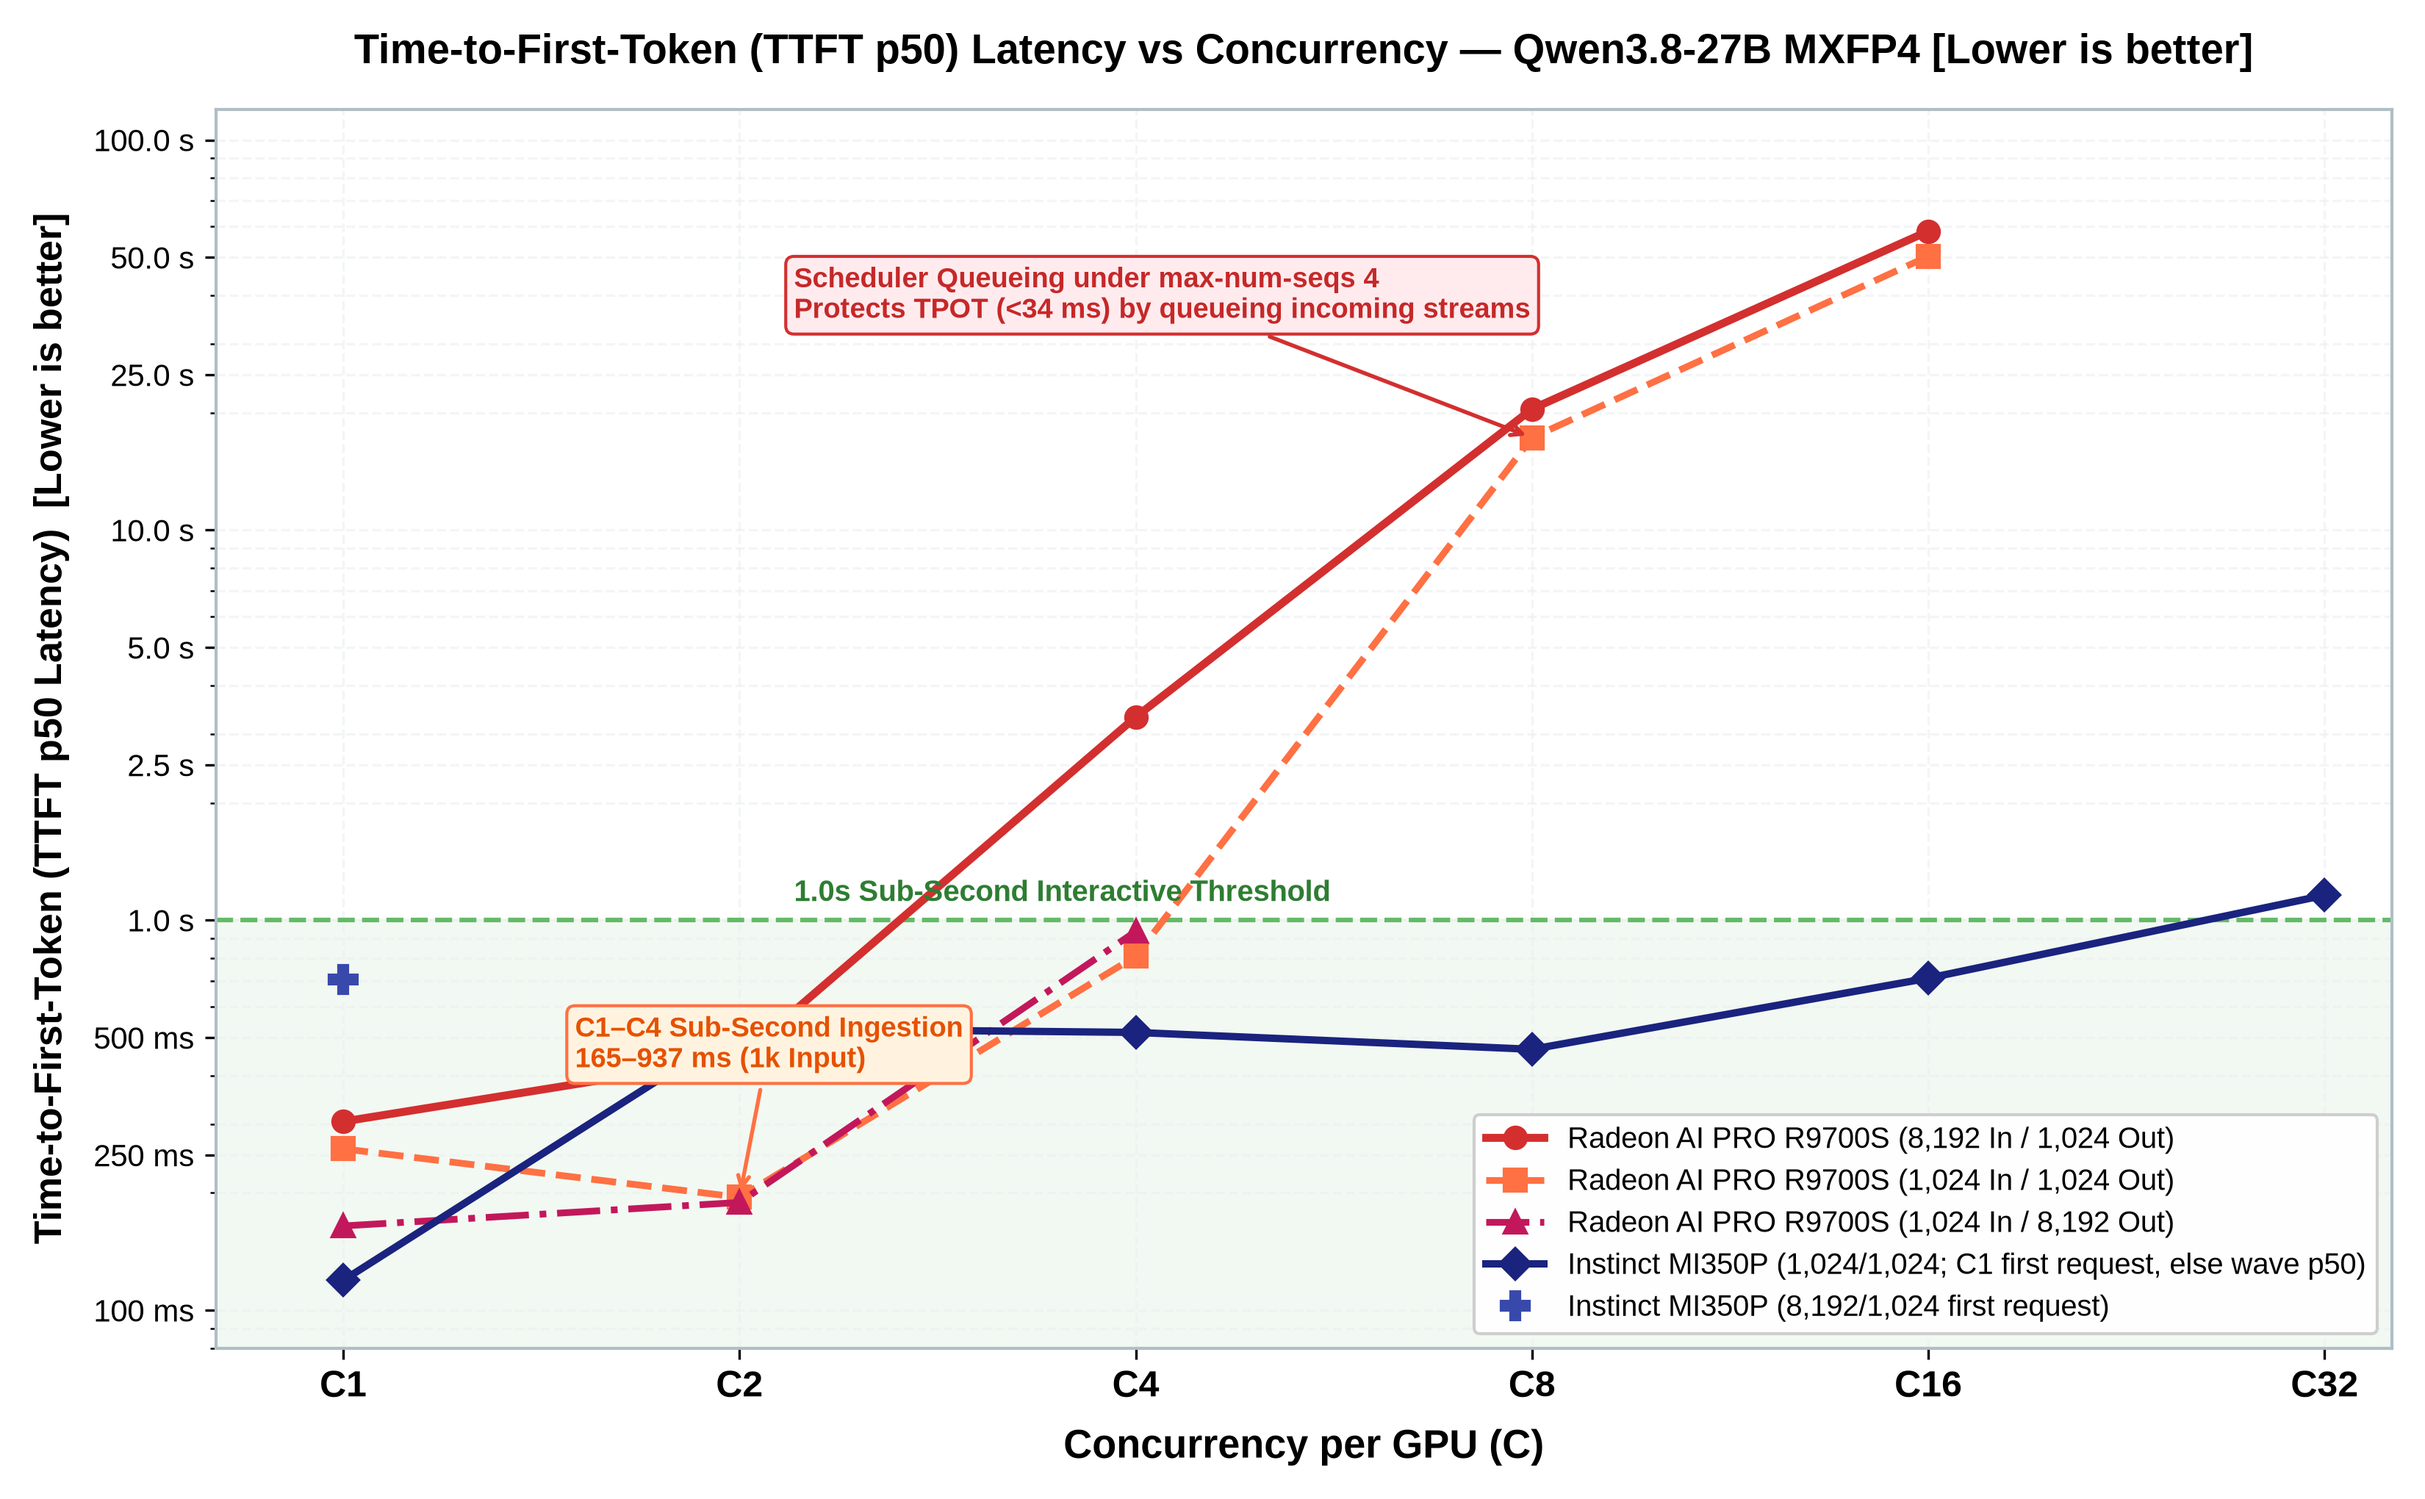
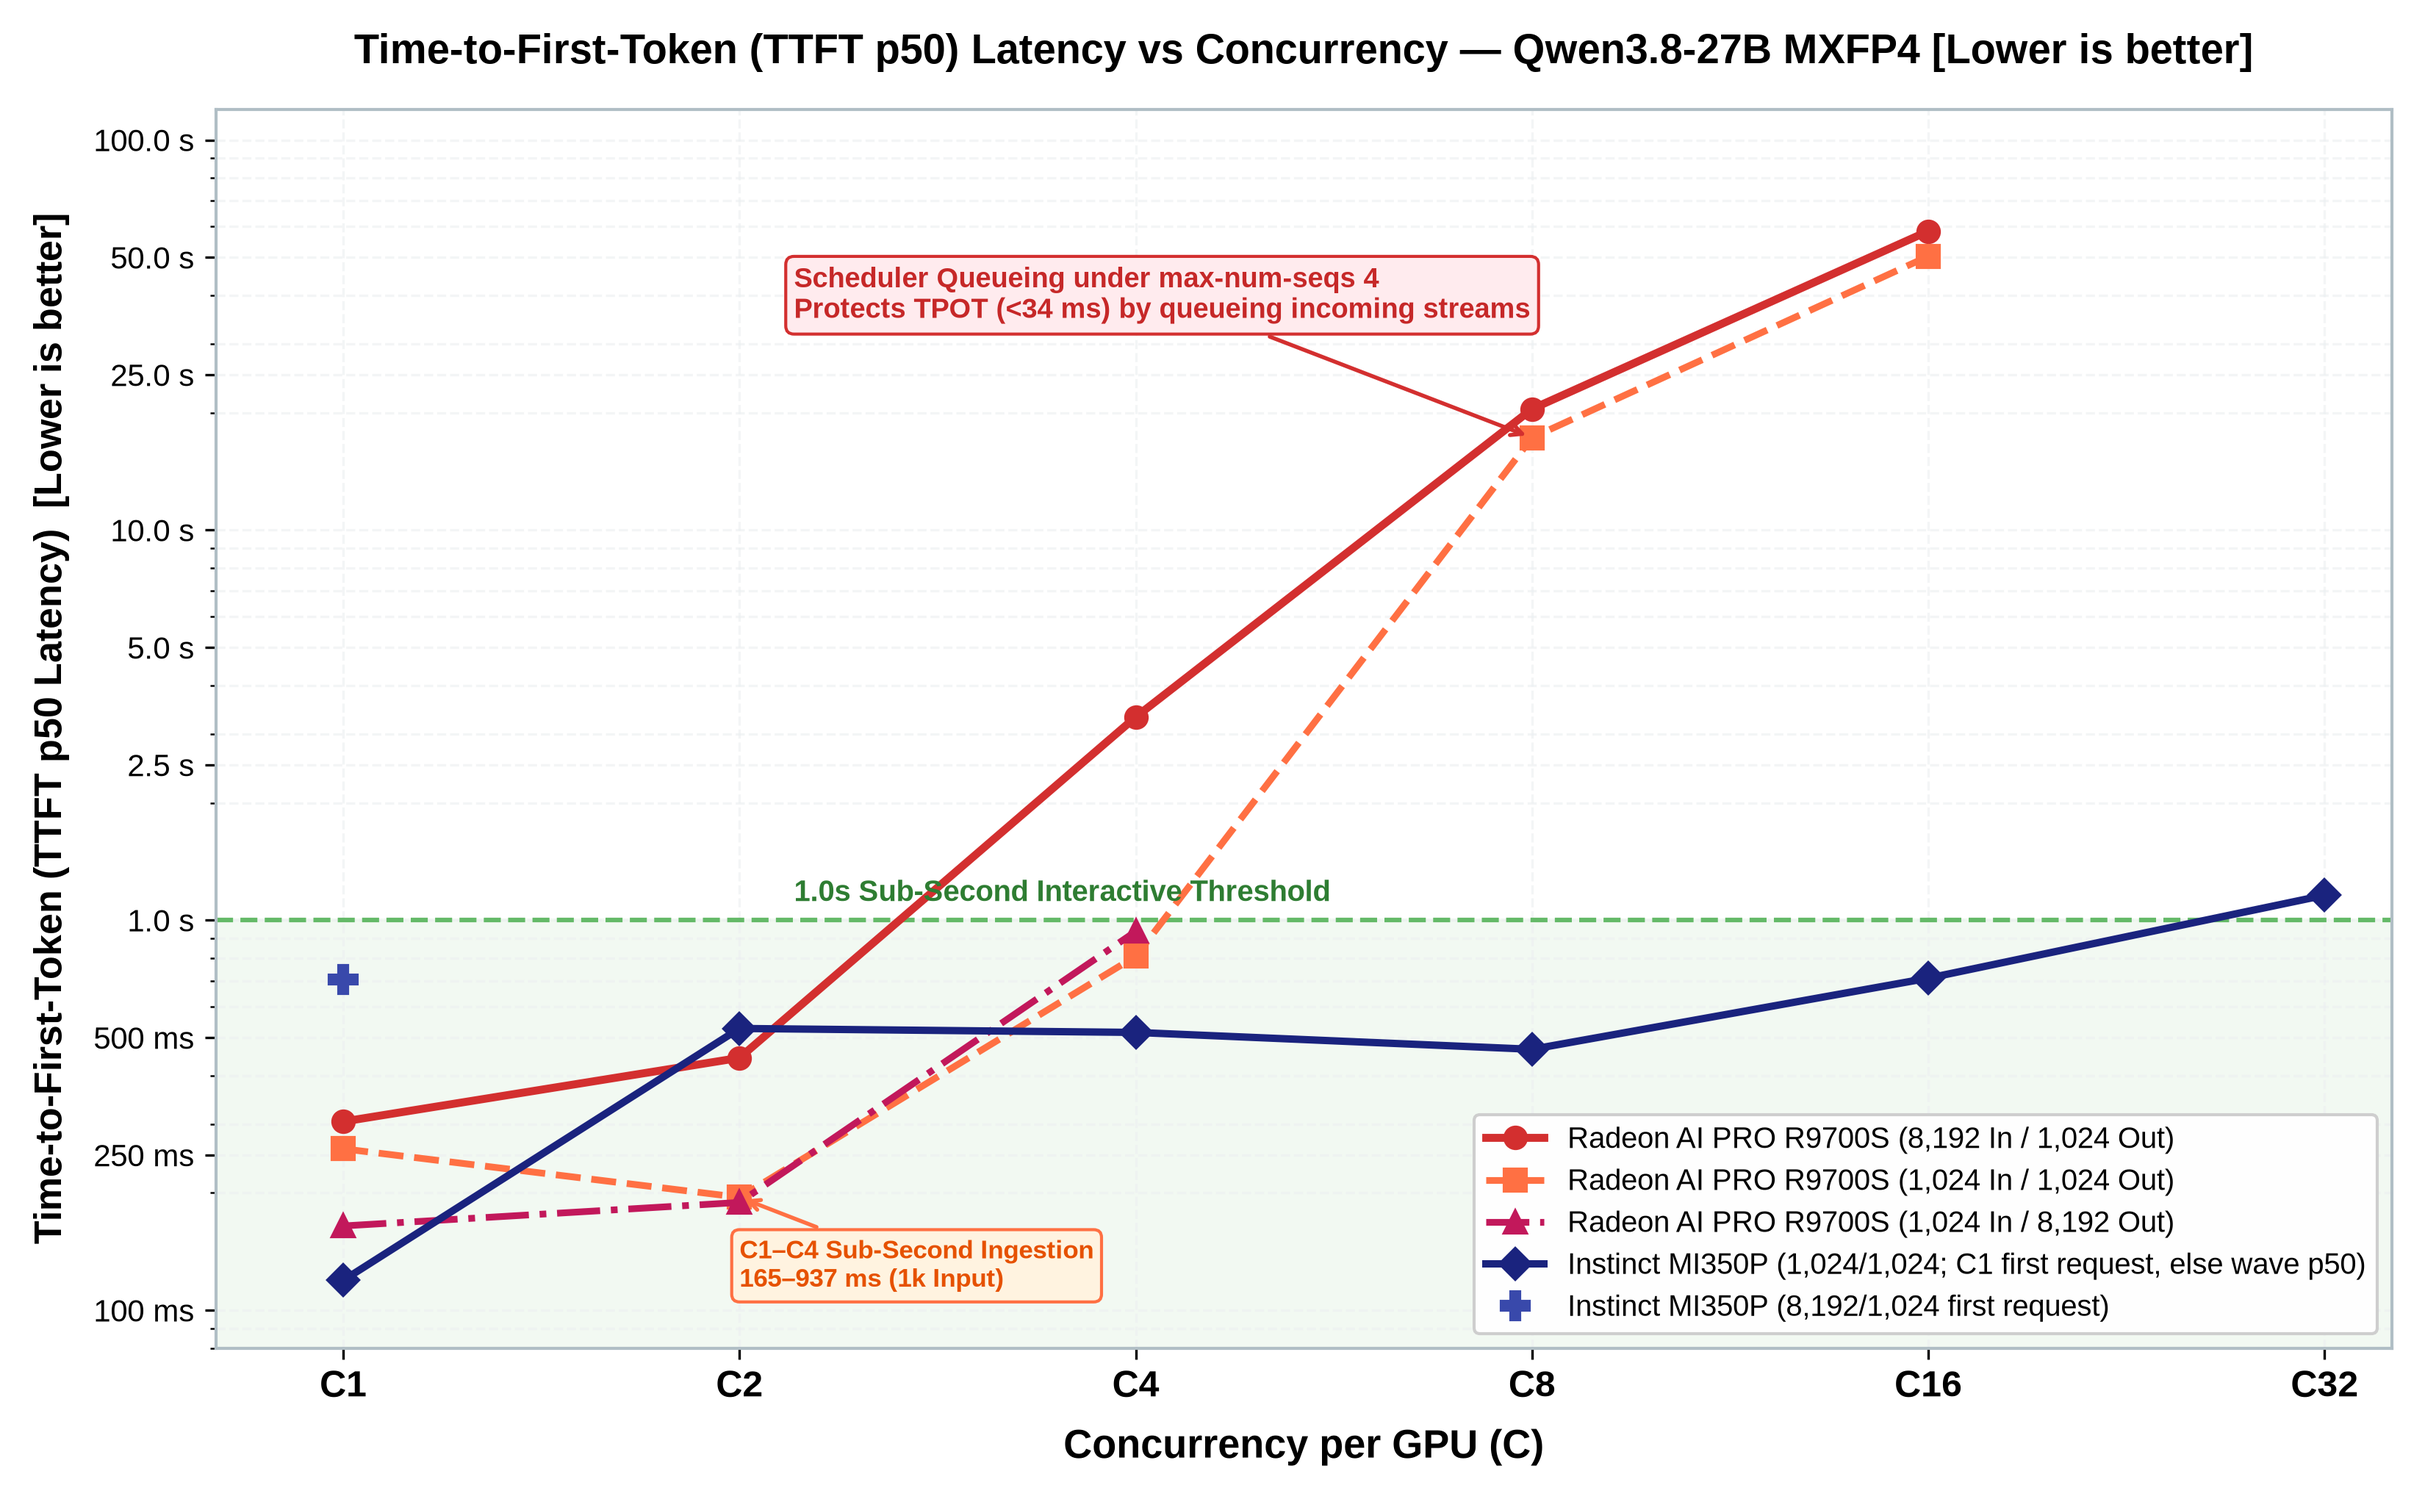
fix(plots): reposition floating note boxes and annotations to eliminate datapoint collisions

Changed region(s): [[0.2185, 0.6485, 0.4058, 0.7412], [0.2809, 0.8029, 0.437, 0.8647]]

diff --git a/scripts/generate_tco_plots.py b/scripts/generate_tco_plots.py
@@ -253,10 +253,10 @@ def plot_cost_1k_8k():
     ax.annotate("$5.39/M", xy=(1, 5.39), xytext=(1.2, 5.55),
                 arrowprops=dict(arrowstyle="->", color=COLOR_MI350P_PROD, lw=1.2),
                 fontweight='bold', color=COLOR_MI350P_PROD)
-    ax.annotate("R9700S Cost Leadership\n$0.59/M @ C4 (2.4× less expensive)", xy=(4, 0.59), xytext=(2.2, 0.25),
+    ax.annotate("R9700S Cost Leadership\n$0.59/M @ C4 (2.4× less expensive)", xy=(4, 0.59), xytext=(1.2, 0.22),
                 arrowprops=dict(arrowstyle="->", color=COLOR_R9700S_PEAK, lw=1.5),
                 bbox=dict(boxstyle="round,pad=0.3", facecolor="#FFEBEE", edgecolor=COLOR_R9700S_PEAK),
-                fontweight='bold', color=COLOR_R9700S_PEAK, fontsize=9.5)
+                fontweight='bold', color=COLOR_R9700S_PEAK, fontsize=8.5)
     ax.annotate("MI350P HBM Scaling\n$0.24/M @ C32", xy=(32, 0.24), xytext=(20, 0.8),
                 arrowprops=dict(arrowstyle="->", color=COLOR_MI350P_PROD, lw=1.5),
                 bbox=dict(boxstyle="round,pad=0.3", facecolor="#E8EAF6", edgecolor=COLOR_MI350P_PROD),
@@ -473,7 +473,7 @@ def plot_executive_dashboard():
     ax4.set_ylim(0, 8000)
     ax4.grid(True, which='both', linestyle='--', alpha=0.6)
     ax4.legend(loc='upper left', fontsize=8.5)
-    ax4.text(0.48, 0.15, "GDDR6 cards saturate KV cache @ C8-C16\nMI350P scales to 7.4k+ tok/s via HBM",
+    ax4.text(0.32, 0.72, "GDDR6 cards saturate KV cache @ C8-C16\nMI350P scales to 7.4k+ tok/s via HBM",
              transform=ax4.transAxes, fontsize=8.5, fontweight='bold', color="#1A237E",
              bbox=dict(boxstyle="round,pad=0.3", facecolor="#E8EAF6", edgecolor="#3949AB"))
     
@@ -526,20 +526,20 @@ def plot_power_utilization():
     ax.text(0.9, 101.5, "100% Device Max TDP Ceiling", fontsize=9.5, fontweight='bold', color="#455A64")
     
     # Data Callouts
-    ax.annotate("C1–C4 High Efficiency\n61.2%–66.5% TDP", xy=(2, 61.2), xytext=(1.4, 45),
+    ax.annotate("C1–C4 High Efficiency\n61.2%–66.5% TDP", xy=(2, 61.2), xytext=(0.85, 38),
                 arrowprops=dict(arrowstyle="->", color=COLOR_R9700S_SLA, lw=1.3),
                 bbox=dict(boxstyle="round,pad=0.3", facecolor="#FFF3E0", edgecolor=COLOR_R9700S_SLA),
-                fontweight='bold', color="#E65100", fontsize=9.0)
+                fontweight='bold', color="#E65100", fontsize=8.5)
     
     ax.annotate("C16 Queue Scaling\n86.6%–88.4% TDP", xy=(16, 88.4), xytext=(9.5, 94),
                 arrowprops=dict(arrowstyle="->", color=COLOR_R9700S_PEAK, lw=1.3),
                 bbox=dict(boxstyle="round,pad=0.3", facecolor="#FFEBEE", edgecolor=COLOR_R9700S_PEAK),
                 fontweight='bold', color=COLOR_R9700S_PEAK, fontsize=9.0)
     
-    ax.annotate("MI350P 1k/1k: 61%–67% TDP through C32\n(75% / 450 W at C64)", xy=(32, 67.08), xytext=(8, 78),
+    ax.annotate("MI350P 1k/1k: 61%–67% TDP through C32\n(75% / 450 W at C64)", xy=(32, 67.08), xytext=(18, 48),
                 arrowprops=dict(arrowstyle="->", color=COLOR_MI350P_PROD, lw=1.3),
                 bbox=dict(boxstyle="round,pad=0.3", facecolor="#E8EAF6", edgecolor=COLOR_MI350P_PROD),
-                fontweight='bold', color=COLOR_MI350P_PROD, fontsize=9.0)
+                fontweight='bold', color=COLOR_MI350P_PROD, fontsize=8.5)
     
     ax.set_xscale('log', base=2)
     ax.set_xticks([1, 2, 4, 8, 16, 32])
@@ -741,10 +741,10 @@ def plot_ttft_latency():
     ax.plot(c_mi350_8k, ttft_mi350_8k, "P", color="#3949AB", ms=9, label="Instinct MI350P (8,192/1,024 first request)")
 
     # Annotations
-    ax.annotate("C1–C4 Sub-Second Ingestion\n165–937 ms (1k Input)", xy=(2, 194.9), xytext=(1.5, 420),
+    ax.annotate("C1–C4 Sub-Second Ingestion\n165–937 ms (1k Input)", xy=(2, 194.9), xytext=(2.0, 115),
                 arrowprops=dict(arrowstyle="->", color=COLOR_R9700S_SLA, lw=1.3),
                 bbox=dict(boxstyle="round,pad=0.3", facecolor="#FFF3E0", edgecolor=COLOR_R9700S_SLA),
-                fontweight="bold", color="#E65100", fontsize=9.0)
+                fontweight="bold", color="#E65100", fontsize=8.5)
 
     ax.annotate("Scheduler Queueing under max-num-seqs 4\nProtects TPOT (<34 ms) by queueing incoming streams",
                 xy=(8, 17258.1), xytext=(2.2, 35000),
@@ -811,12 +811,12 @@ def plot_slo_qualified_goodput():
              bbox=dict(boxstyle="square,pad=0.25", facecolor='white', alpha=0.9, edgecolor="#9FA8DA"))
     
     # Annotations on Panel 1
-    ax1.annotate("R9700S Interactive Saturation\n976 tok/s @ C4 (TTFT 809ms)", xy=(4, 976), xytext=(1.8, 2200),
+    ax1.annotate("R9700S Interactive Saturation\n976 tok/s @ C4 (TTFT 809ms)", xy=(4, 976), xytext=(1.4, 3800),
                 arrowprops=dict(arrowstyle="->", color=COLOR_R9700S_PEAK, lw=1.3),
                 bbox=dict(boxstyle="round,pad=0.3", facecolor="#FFEBEE", edgecolor=COLOR_R9700S_PEAK),
                 fontweight='bold', color=COLOR_R9700S_PEAK, fontsize=8.5)
     
-    ax1.annotate("Queueing under max-num-seqs 4\nProtects TPOT (<33ms), but\nTTFT breaches 3.5s SLA (17–50s)", xy=(8, 976), xytext=(5.5, 4500),
+    ax1.annotate("Queueing under max-num-seqs 4\nProtects TPOT (<33ms), but\nTTFT breaches 3.5s SLA (17–50s)", xy=(8, 976), xytext=(6.5, 2000),
                 arrowprops=dict(arrowstyle="->", color=COLOR_R9700S_SLA, lw=1.3),
                 bbox=dict(boxstyle="round,pad=0.3", facecolor="#FFF3E0", edgecolor=COLOR_R9700S_SLA),
                 fontweight='bold', color="#E65100", fontsize=8.5)
@@ -898,7 +898,7 @@ def plot_joules_per_token():
     ax.plot(c, j_1k, "D-", color=COLOR_MI350P_PROD, lw=2.6, ms=8, label="MI350P 1,024 in / 1,024 out")
     ax.plot([64], [0.23], "D", color=COLOR_MI350P_PROD, ms=8)
 
-    ax.annotate("C64 0.23 J/tok", xy=(64, 0.23), xytext=(28, 0.7),
+    ax.annotate("C64 0.23 J/tok", xy=(64, 0.23), xytext=(42, 1.2),
                 arrowprops=dict(arrowstyle="->", color=COLOR_MI350P_PROD, lw=1.2),
                 fontweight="bold", color=COLOR_MI350P_PROD, fontsize=9.5)
     ax.annotate("R9700S 3.01 J/tok\nat 8k/1k C4", xy=(4, 3.01), xytext=(6.5, 4.6),

diff --git a/scripts/generate_pd_plots.py b/scripts/generate_pd_plots.py
@@ -101,13 +101,13 @@ def generate_master_dashboard():
     ax1.grid(True, which="both", linestyle="--", alpha=0.5)
     ax1.legend(loc='upper left', fontsize=8.0, framealpha=0.9)
     
-    ax1.text(0.03, 0.44, 
-             "• Chunk 4K: Stalls bounded to 59.5 ms (0% >100ms violations)\n"
-             "• Chunk 2K: Periodic prefill causes 613 ms stalls (3.5% >100ms)\n"
-             "• Sustained Ingestion: Decode freezes for 1,363 ms (100% fail)\n"
-             "• P/D 1P1D: Bounded at 48.2 ms [Emulated — 2-GPU validation pending]",
-             transform=ax1.transAxes, fontsize=7.8,
-             bbox=dict(boxstyle="round,pad=0.4", facecolor="#FFF9C4", edgecolor="#FBC02D", alpha=0.95))
+    ax1.text(0.03, 0.35, 
+             "• Chunk 4K: ≤59.5 ms (0% breach)\n"
+             "• Chunk 2K: 613 ms stall (3.5% breach)\n"
+             "• Sustained: 1,363 ms stall (100% fail)\n"
+             "• P/D 1P1D: 48.2 ms [Emulated]",
+             transform=ax1.transAxes, fontsize=7.2,
+             bbox=dict(boxstyle="round,pad=0.3", facecolor="#FFF9C4", edgecolor="#FBC02D", alpha=0.95))
 
     # PANEL B: Usable Capacity
     workloads = ["Light (J1)", "Moderate (J2)", "Saturated", "J3 Sustained"]
@@ -134,17 +134,17 @@ def generate_master_dashboard():
     ax2.set_xticklabels(workloads, fontsize=9.5, fontweight='bold')
     ax2.set_ylabel("Output Throughput (Output tok/s)", fontsize=10.5, fontweight='bold')
     ax2.set_title("B. Raw Output vs. SLO-Qualified Goodput (All-or-Nothing Criteria)", fontsize=11.5, fontweight='bold', pad=10)
-    ax2.set_ylim(0, 68)
+    ax2.set_ylim(0, 82)
     ax2.grid(True, linestyle="--", alpha=0.5)
     ax2.legend(loc='upper right', fontsize=8.0, framealpha=0.9)
     
-    ax2.text(0.03, 0.72,
+    ax2.text(0.03, 0.74,
              "All-or-Nothing Goodput: G_output = (sum q_i * O_i) / T\n"
              "• Any request failing TTFT > 3.5s or Peak ITL > 500ms counts 0 qualified tokens.\n"
              "• DP=2 produces raw output, but streaming sessions fail max-ITL ceiling.\n"
              "• P/D goodput advantage reflects stall isolation, not zero DP raw output.",
-             transform=ax2.transAxes, fontsize=7.5,
-             bbox=dict(boxstyle="round,pad=0.35", facecolor="#E8F5E9", edgecolor="#81C784", alpha=0.95))
+             transform=ax2.transAxes, fontsize=7.2,
+             bbox=dict(boxstyle="round,pad=0.3", facecolor="#E8F5E9", edgecolor="#81C784", alpha=0.95))
 
     # PANEL C: Sustainable Capacity
     lam = np.array([0.1, 0.2, 0.33, 0.5, 0.75, 1.0, 1.2])
@@ -198,7 +198,7 @@ def generate_master_dashboard():
     ax4_twin.set_ylabel("TTFT p95 Latency (ms)", fontsize=10.5, fontweight='bold', color="#D32F2F")
     ax4_twin.tick_params(axis='y', labelcolor="#D32F2F")
     ax4_twin.set_ylim(3200, 3950)
-    ax4.set_ylim(0, 55)
+    ax4.set_ylim(0, 62)
     
     ax4.set_title("D. Assumed Injected Handoff Delay Sensitivity & TTFT Inflation", fontsize=11.5, fontweight='bold', pad=10)
     ax4.grid(True, linestyle="--", alpha=0.5)
@@ -208,7 +208,7 @@ def generate_master_dashboard():
     ax4.legend(lines_4 + lines_4t, labels_4 + labels_4t, loc='lower left', fontsize=7.8, framealpha=0.9)
     
     ax4.annotate("TTFT breaches 3.5s SLA\n(Goodput drops to 14.7 tok/s)",
-                 xy=(4, 15.5), xytext=(2.3, 26),
+                 xy=(4, 15.5), xytext=(2.3, 50),
                  arrowprops=dict(arrowstyle="->", color="#B71C1C", lw=1.5),
                  fontsize=7.8, fontweight='bold', color="#B71C1C",
                  bbox=dict(boxstyle="round,pad=0.3", facecolor="#FFEBEE", edgecolor="#EF9A9A"))
